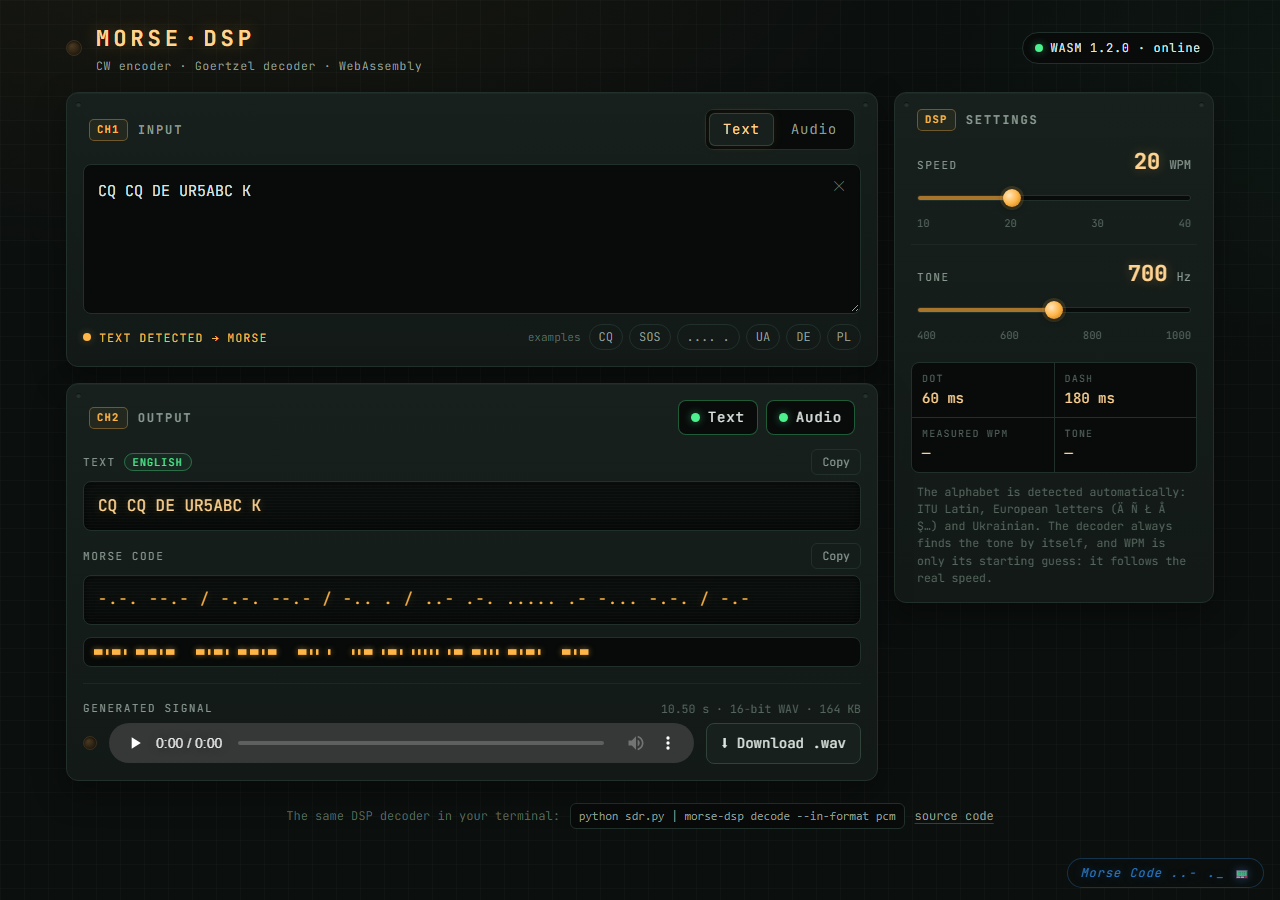
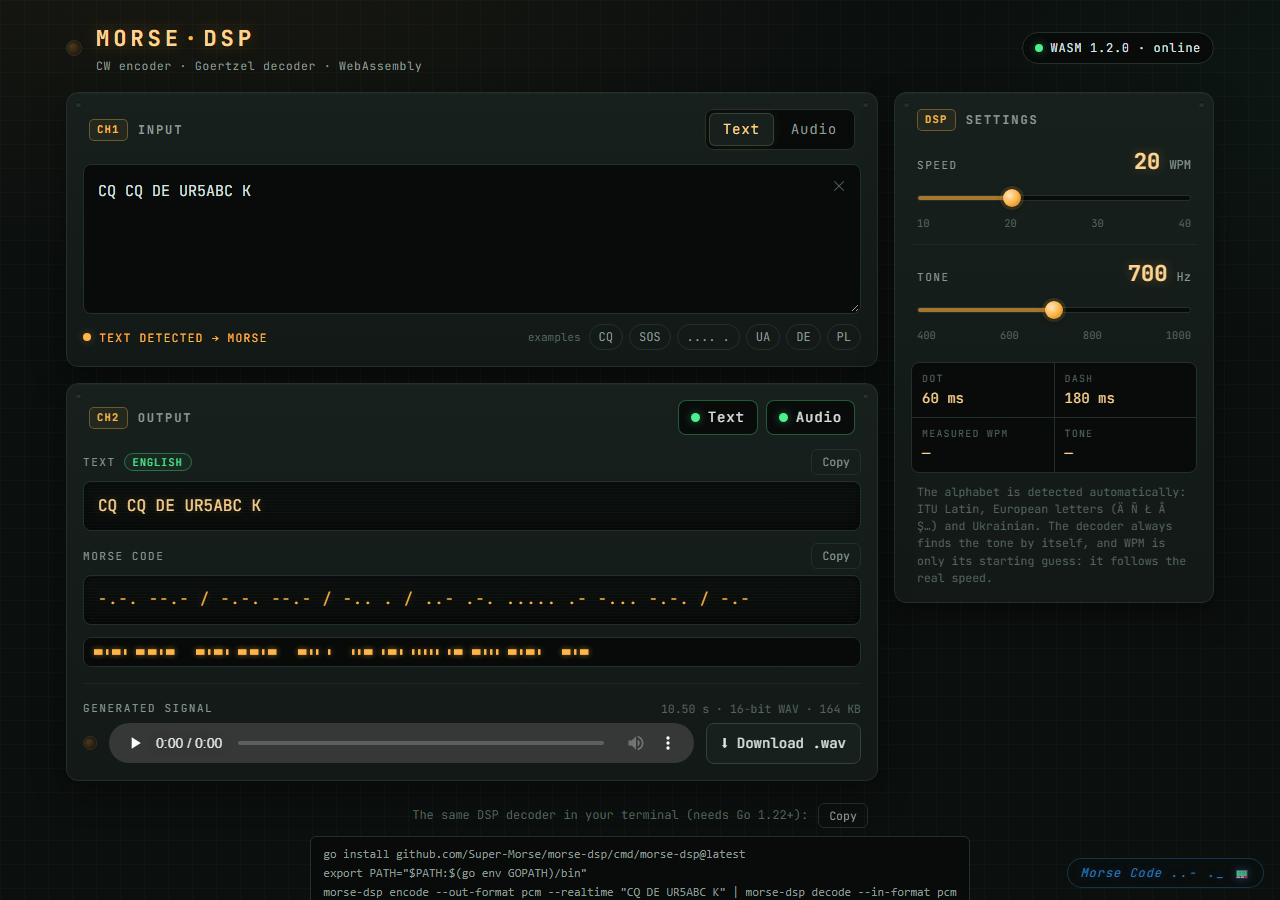
fix(web): footer shows a terminal command that actually runs
The footer advertised "python sdr.py | morse-dsp decode", but sdr.py is
the upcoming sdr-receiver project and morse-dsp is often not on PATH, so
copying it failed. It now shows install, PATH and a live encode --realtime
| decode pipe, with a Copy button; the block scrolls on narrow screens
instead of the page.

- CLI --help and main.go: the live example uses encode --realtime
- README: go install section; the SDR section marks sdr.py as your own
  receiver and adds the no-radio pipe
- learn.html: scenario Г uses runnable commands
- desktop screenshot retaken

Changed region(s): [[0.25, 0.9022, 0.7812, 0.9956], [0.6875, 0.9644, 0.75, 0.9956]]

diff --git a/docs/learn.html b/docs/learn.html
@@ -927,7 +927,7 @@ function showLanguage(name) {
       <tr><td>А. Текст → Морзе</td><td><code>morse-dsp encode "ПРИВІТ, ЕФІРЕ! 73"</code> → <code>.--. .-. -.-- .-- .. - --..-- / …</code></td></tr>
       <tr><td>Б. Морзе → текст</td><td><code>morse-dsp decode -.-. --.-</code> → <code>CQ</code></td></tr>
       <tr><td>В. Текст → звук</td><td><code>morse-dsp encode --snr 10 -o cq.wav "CQ CQ"</code></td></tr>
-      <tr><td>Г. Звук → текст</td><td><code>python sdr.py | morse-dsp decode --in-format pcm --rate 12000</code></td></tr>
+      <tr><td>Г. Звук → текст</td><td><code>morse-dsp decode -i cq.wav</code>, а наживо: <code>morse-dsp encode --out-format pcm --realtime "CQ" | morse-dsp decode --in-format pcm</code></td></tr>
     </tbody>
   </table></div>
   <p>Мова визначається автоматично, а <code>--lang</code> (en, ua, ru, de, fr, es, pl, sv, tr) лише примусово задає абетку. Файл, переданий через <code>-i</code>, декодується цілком (<code>DecodeSource</code>), тож мова обирається за всім записом. Stdin декодується наживо, символ за символом, бо там може бути приймач. Тон декодер теж знаходить сам; <code>--freq</code> потрібен лише для згенерованого звуку (700 Гц за замовчуванням) або щоб закріпити тон слабшої станції поруч із сильнішою.</p>

diff --git a/docs/style.css b/docs/style.css
@@ -362,14 +362,16 @@ input[type="range"]:focus-visible::-moz-range-thumb { box-shadow: 0 0 0 3px var(
 
 /* ---------- footer & signature ---------- */
 .foot {
-  display: flex; align-items: center; justify-content: center; gap: 10px; flex-wrap: wrap;
+  display: flex; flex-direction: column; align-items: center; gap: 8px;
   margin-top: 22px; font-size: 12px; color: var(--faint); text-align: center;
 }
-.foot code {
-  max-width: 100%; padding: 3px 8px; border-radius: 6px; background: var(--inset); border: 1px solid var(--line);
-  color: var(--muted);
+.foot-head { display: flex; align-items: center; justify-content: center; gap: 10px; flex-wrap: wrap; }
+/* The commands keep their lines; a narrow screen scrolls the block, not the page. */
+.foot-cmd {
+  max-width: 100%; margin: 0; padding: 8px 12px; overflow-x: auto; text-align: left;
+  border-radius: 6px; background: var(--inset); border: 1px solid var(--line);
+  font: 12px/1.6 var(--mono); color: var(--muted);
 }
-.foot code span { white-space: nowrap; } /* narrow screens wrap only after the pipe */
 .foot a { color: var(--muted); text-decoration-color: var(--line-hi); text-underline-offset: 3px; }
 
 .signature {

diff --git a/docs/index.html b/docs/index.html
@@ -180,8 +180,13 @@
     </main>
 
     <footer class="foot">
-      <span>The same DSP decoder in your terminal:</span>
-      <code><span>python sdr.py |</span> <span>morse-dsp decode --in-format pcm</span></code>
+      <div class="foot-head">
+        <span>The same DSP decoder in your terminal (needs&nbsp;Go&nbsp;1.22+):</span>
+        <button type="button" class="copy" data-copy="cliCmd">Copy</button>
+      </div>
+      <pre class="foot-cmd"><code id="cliCmd">go install github.com/Super-Morse/morse-dsp/cmd/morse-dsp@latest
+export PATH="$PATH:$(go env GOPATH)/bin"
+morse-dsp encode --out-format pcm --realtime "CQ DE UR5ABC K" | morse-dsp decode --in-format pcm</code></pre>
       <a href="https://github.com/Super-Morse/morse-dsp" rel="noopener">source code</a>
     </footer>
   </div>

diff --git a/cmd/morse-dsp/cli.go b/cmd/morse-dsp/cli.go
@@ -32,7 +32,7 @@ Scenarios:
   C  text → audio     morse-dsp encode --out-format wav -o cq.wav "CQ CQ DE UR5ABC K"
                       morse-dsp encode --out-format pcm "CQ DE UR5ABC" | aplay -f S16_LE -r 8000
   D  audio → text     morse-dsp decode -i cq.wav
-                      python sdr.py | morse-dsp decode --in-format pcm --rate 12000
+                      morse-dsp encode --out-format pcm --realtime "CQ" | morse-dsp decode --in-format pcm
 
 Languages (--lang auto, the default):
   Any supported letter is encoded without a flag: ITU Latin, German Ä Ö Ü ẞ,

diff --git a/cmd/morse-dsp/main.go b/cmd/morse-dsp/main.go
@@ -6,7 +6,7 @@
 //	morse-dsp encode --out-format wav -o cq.wav "CQ"        # C: text → WAV
 //	morse-dsp encode --out-format pcm "CQ" | aplay -f S16_LE -r 8000
 //	morse-dsp decode -i cq.wav                              # D: WAV → text
-//	python sdr.py | morse-dsp decode --in-format pcm --rate 12000
+//	morse-dsp encode --out-format pcm --realtime "CQ" | morse-dsp decode --in-format pcm  # live
 package main
 
 import "os"

diff --git a/README.md b/README.md
@@ -101,7 +101,7 @@ Live ratings for security, reliability and duplication are published by SonarClo
 - **Clean CW Synthesis:** Continuous-phase sine keyed with **5 ms raised-cosine ramps** (no key clicks), PARIS timing, configurable WPM and tone, optional **white Gaussian noise at a given SNR** for testing.
 - **Streaming DSP Decoder:** Sliding **Goertzel** filter → envelope detector → **adaptive threshold** (median noise floor, peak tracker, squelch, hysteresis) → glitch filter → **automatic WPM tracking** → text, emitted character by character in real time — the language detector never delays the output, and a **sticky session language** keeps short replies (`ТАК`, `JA`) in the right alphabet.
 - **Automatic Tone Search:** Always on — a Welch/FFT spectrum scan finds the CW tone between 300 and 1500 Hz; in the CLI, `--freq N` pins a known tone.
-- **SDR-Ready Pipe Interface:** Reads raw `s16le`/`f32le` PCM from stdin with low latency — designed for `python sdr.py | morse-dsp decode`.
+- **SDR-Ready Pipe Interface:** Reads raw `s16le`/`f32le` PCM from stdin with low latency — designed for an SDR receiver piping its audio straight into `morse-dsp decode`.
 - **WAV I/O:** Reads 8/16/24/32-bit PCM and 32/64-bit float WAV (mono or stereo, any rate, even streamed WAVs); writes 16-bit PCM.
 - **In-Browser Radio Console:** The same Go code compiled to WASM. Detects text vs Morse and the language as you type (no language selector), decodes uploaded WAVs, generates noisy test signals in one click, and re-keys a **clean signal** from what the decoder heard.
 - **Responsive Mobile UX:** In portrait the output sits right under the input and the DSP settings move to the bottom; in landscape input and output sit side by side. Safe-area insets for notched phones, touch-sized controls, no horizontal scrolling down to 320 px.
@@ -167,7 +167,11 @@ def emit(audio: np.ndarray) -> None:
 ```
 
 ```bash
+# sdr.py is your receiver script (or the upcoming sdr-receiver) writing samples with emit()
 python sdr.py | ./bin/morse-dsp decode --in-format pcm --rate 12000 --linebreak 2
+
+# no radio at hand: the encoder plays a live station in real time
+./bin/morse-dsp encode --out-format pcm --realtime "CQ DE UR5ABC K" | ./bin/morse-dsp decode --in-format pcm
 ```
 
 ---
@@ -203,6 +207,13 @@ The page must be served over HTTP: browsers refuse to load WebAssembly from `fil
 ```text
 morse-dsp [encode|decode] [flags] [text ...]
 morse-dsp --mode encode|decode [flags] [text ...]
+```
+
+Install the CLI alone with Go 1.22+ (or build `./bin/morse-dsp` with `make cli`):
+
+```bash
+go install github.com/Super-Morse/morse-dsp/cmd/morse-dsp@latest
+export PATH="$PATH:$(go env GOPATH)/bin"   # if Go's bin directory is not on PATH yet
 ```
 
 Input comes from text arguments, `--in`/`-i`, or stdin; output goes to `--out`/`-o` or stdout. Without a mode the tool decides: Morse text and audio are decoded, anything else is encoded.
